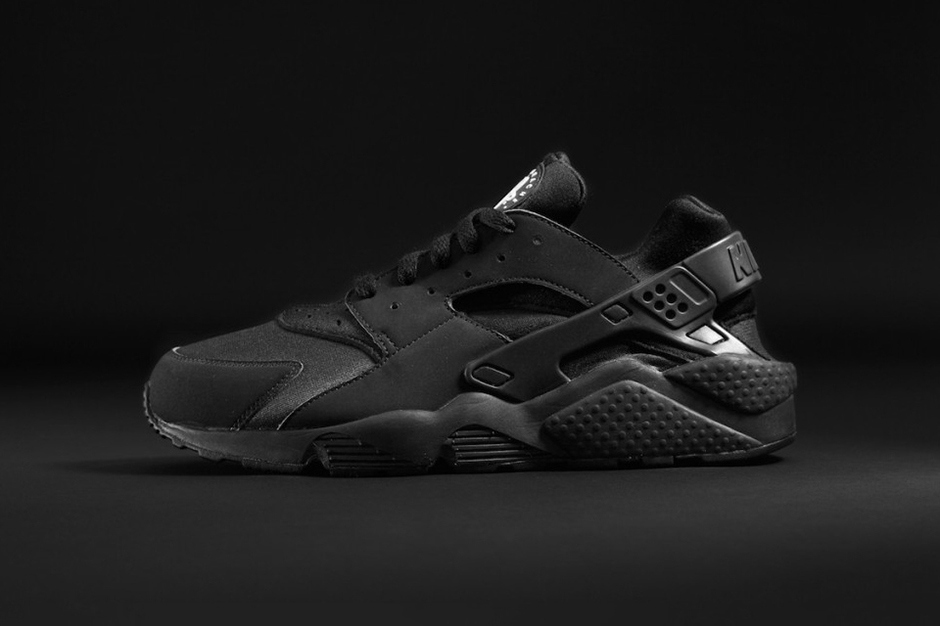
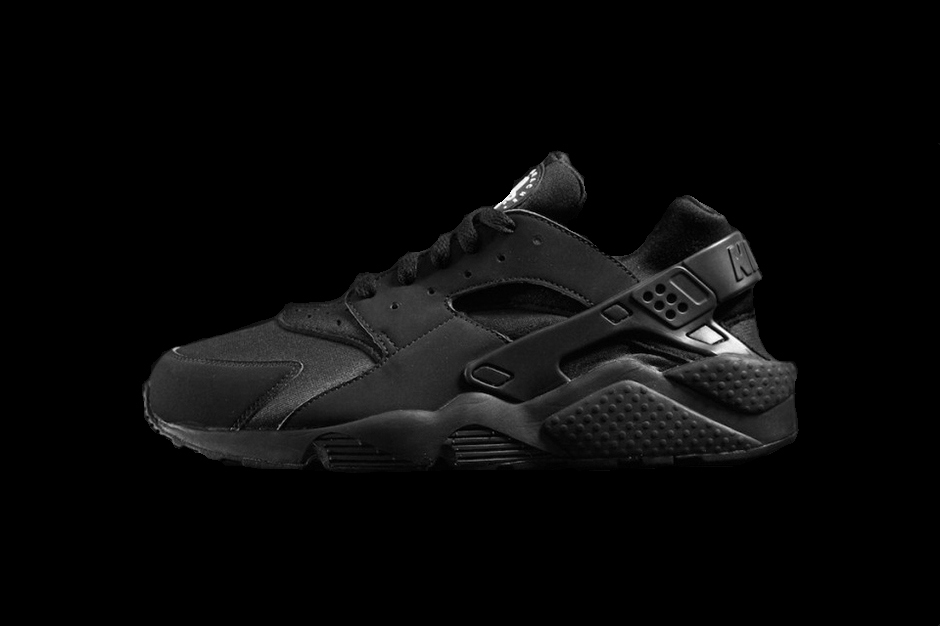
Editing register.html

Changed region(s): [[0.0, 0.6374, 1.0, 1.0], [0.6479, 0.3946, 0.6787, 0.4249], [0.5245, 0.3035, 0.5553, 0.3339]]

diff --git a/Accounts/templates/registration/register.html b/Accounts/templates/registration/register.html
@@ -19,56 +19,42 @@
   {% if next %}
     <p>You can't access this page, first you need to sign up.</p>
   {% endif %}
-  <div id="register">
-    <div class="mdl-card-square mdl-card mdl-shadow--2dp">
-      <div class="mdl-card__title">
-        <h2 class="mdl-card__title-text">Registration</h2>
-      </div>
-      <div class="mdl-card__supporting-text">
-        <form method="post" action="{% url 'register' %}">
-            {% csrf_token %}
-            <div class="mdl-textfield mdl-js-textfield mdl-textfield--floating-label">
-              {{ form.username }}
-              <label class="mdl-textfield__label" for="id_username">Username...</label>
-            </div>
-            <div class="mdl-textfield mdl-js-textfield mdl-textfield--floating-label">
-              {{ form.email }}
-              <label class="mdl-textfield__label" for="id_email">Email...</label>
-            </div>
-            <div class="mdl-textfield mdl-js-textfield mdl-textfield--floating-label">
-              {{ form.password1 }}
-              <label class="mdl-textfield__label" for="id_password">Password...</label>
-            </div>
-            <div class="mdl-textfield mdl-js-textfield mdl-textfield--floating-label">
-              {{ form.password2 }}
-              <label class="mdl-textfield__label" for="id_password">Confirm password...</label>
-            </div>
-          <div class="mdl-card__actions mdl-card--border">
-           <button type="submit" class="mdl-button mdl-js-ripple-effect mdl-js-button mdl-button--raised mdl-button--colored" href="/">Sign Up</button>
+  <div class="mdl-card-square mdl-card mdl-shadow--2dp" id="info">
+    <div class="mdl-card__title">
+      <h2 class="mdl-card__title-text">My Info</h2>
+    </div>
+    <div class="mdl-card__supporting-text">
+      <form method="post" action="{% url 'register' %}">
+        {% csrf_token %}
+        <div class="mdl-textfield mdl-js-textfield mdl-textfield--floating-label">
+          {{ form.username }}
+          <label class="mdl-textfield__label" for="id_username">Username...</label>
+        </div>
+        <div class="mdl-textfield mdl-js-textfield mdl-textfield--floating-label">
+          {{ form.email }}
+          <label class="mdl-textfield__label" for="id_email">Email...</label>
+        </div>
+      </form>
+    </div>
+  </div>
+  <div class="mdl-card-square mdl-card mdl-shadow--2dp" id="password">
+    <div class="mdl-card__title">
+      <h2 class="mdl-card__title-text">Password</h2>
+    </div>
+    <div class="mdl-card__supporting-text">
+      <form method="post" action="{% url 'register' %}">
+        {% csrf_token %}
+        <div class="mdl-textfield mdl-js-textfield mdl-textfield--floating-label">
+          {{ form.password1 }}
+          <label class="mdl-textfield__label" for="id_username">Password...</label>
+        </div>
+        <div class="mdl-textfield mdl-js-textfield mdl-textfield--floating-label">
+          {{ form.password2 }}
+          <label class="mdl-textfield__label" for="id_email">Confirm password...</label>
           </div>
-         </form>
-      </div>
+      </form>
     </div>
   </div>
-  <div id="about1">
-    <div class="mdl-card-square mdl-card mdl-shadow--2dp" id="about2">
-      <div class="mdl-card__title" id="about">
-        <h2 class="mdl-card__title-text">About It</h2>
-      </div>
-      <div class="mdl-card__supporting-text" id="text">
-        <ol>
-          Here's short depiction of the site:
-          <li>You can find sneakers quickly - you will be shown the price, URL of shop, and all information about model of sneakers.</li>
-          <li>If you're signed up, you can save your queries in search history and share them. Registration also provides access to your profile.</li>
-          <li>You can find sneakers by firm: Nike, Adidas, Puma, Reebok, Asics, etc. When you found model you want - you can click the "buy" button and you will be redirected to the shop page.</li>
-          <li>Share your queries with friends by Instagram, Facebook, Reddit, Twitter, Telegram and VK.
-          <li>If you have some questions you can go to "Contact Me" and email me on gmail.com</li>
-          </ol>
-      </div>
-      <div class="mdl-card__actions mdl-card--border">
-        <button class="mdl-button mdl-js-button mdl-button--fab mdl-js-ripple-effect mdl-button--colored"><i class="material-icons">share</i></button>
-      </div>
-    </div>
-  </div>
+  <button id="SignUp" class="mdl-button mdl-js-button mdl-js-ripple-effect">Sign Up</button>
 </main>
 {% endblock %}

diff --git a/Home/static/register.css b/Home/static/register.css
@@ -6,65 +6,39 @@ body {
   font-size: 19px;
   -webkit-font-smoothing: antialiased;
   -webkit-overflow-scrolling: touch;
-  background: url('https://i.pinimg.com/originals/4c/52/97/4c5297b1a347d051533c39e3f630a274.jpg') center
+  background-color: #ffffff;
 }
 
-span {
-  color: #000;
-}
-
-#title {
-  color: #000;
-  opacity: 0.8;
-}
-
-#register {
-  padding:10px;
-  overflow: auto;
-  margin-top: 10px;
-  margin-left: 50px;
-  float: left;
-  width: 500px;
-}
-
-.mdl-layout__drawer-button {
-  display: none;
-}
-
-h1,h2,h3,h4,h5 {
-  float: right;
-}
-
-.demo-card-wide, .mdl-card__title {
+.mdl-card__title {
   color: #ffffff;
   font-weight: 600;
-  height: 220px;
+  height: 370px;
   width: 100%;
-  background: url('https://cdn.trendhunterstatic.com/thumbs/stanley-wong.jpeg') center/cover;
+  background: url('https://i.pinimg.com/originals/c7/dd/8f/c7dd8fc0b8a9417167f52b38406f860e.jpg') center/cover;
 }
 
-#about {
-  background: url('https://mir-s3-cdn-cf.behance.net/project_modules/disp/373c8d60918085.5a5dd378bd3f3.jpg') center/cover;
-  width: 100%;
-  height: 600px;
+#info {
+  min-width: 200px;
+  min-height: 200px;
+  height: 550px;
+  width: 400px;
+  float: left;
+  margin-left: 300px;
+  margin-top: 50px;
 }
 
-#about1 {
-  padding: 10px;
-  overflow: hidden;
-  min-width: 500px;
-  max-width: 700px;
-  margin-right: 140px;
-  margin-top: 10px;
+#password {
+  min-width: 200px;
+  min-height: 200px;
+  height: 550px;
+  width: 400px;
+  float: left;
+  margin-left: 100px;
+  margin-top: 50px;
 }
 
-#about2 {
-  width: 100%;
-}
-
-#text {
-  font-size: 17px;
-  color: #696969;
+#SignUp {
+  margin-left: 706px;
 }
 
 #signin {

diff --git a/Home/static/main.css b/Home/static/main.css
@@ -11,15 +11,26 @@ body {
   font-size: 15px;
 }
 
-#forBlack {
-  margin-top: 500px;
+#huarache {
+  float: left;
+  margin-left: 200px;
+  height: 600px;
+  width: 1100px;
+  min-width: 600px;
+  min-height: 300px;
+  margin-top: 100px;
+  background: url('/static/huarache.jpg') center/cover;
+  -webkit-background-size: cover;
+  -moz-background-size: cover;
+  -o-background-size: cover;
+  background-size: cover;
 }
 
 #yeezyBlack {
   float: left;
   margin-left: 200px;
-  height: 100%;
-  width: 1800px;
+  height: 600px;
+  width: 1100px;
   min-width: 600px;
   min-height: 300px;
   background: url('/static/yeezyBlack.jpg') center/cover;
@@ -61,6 +72,12 @@ body {
   margin-left: 160px;
   margin-top: 500px;
   color: #000;
+}
+
+#h24 {
+  margin-left: 300px;
+  margin-top: 525px;
+  color: #ffffff;
 }
 
 #title {

diff --git a/Home/templates/Home1/homePage.html b/Home/templates/Home1/homePage.html
@@ -21,7 +21,9 @@
     </div>
     <div id="yeezyBlack">
       <h2 id="h23">Save your searches, and share them.</h2>
-      <h2>Hello</h2>
+    </div>
+    <div id="huarache">
+      <h2 id="h24">Read the latest news!</h2>
     </div>
   </main>
 </body>
